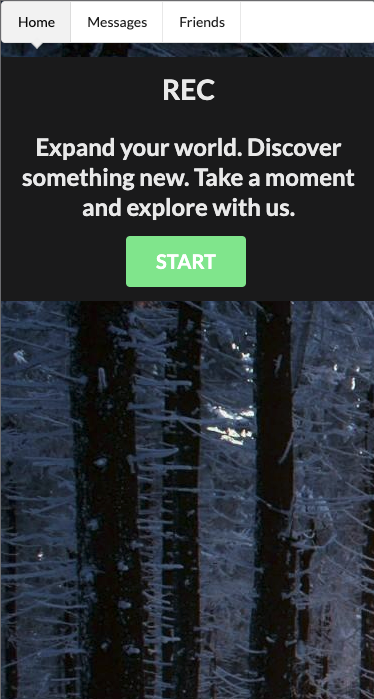
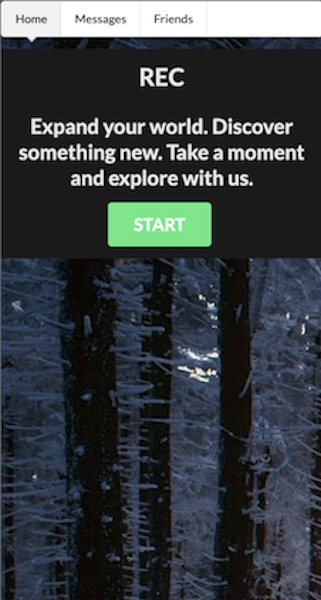
Added new mobile screenshots for apps on portfolio page

diff --git a/portfolio.html b/portfolio.html
@@ -66,25 +66,27 @@
             </div>
                 <!-- Added col -->
             <div class="col-md-6">
-                <img src="images/Day-Planner-Desktop.png" id="day-planner" class="rounded img-fluid" alt="Work Day Scheduler">
+                <img src="images/Day-Planner-Mobile.png" id="day-planner" class="rounded img-fluid" alt="Work Day Scheduler">
             </div>
         </div>
         <div class="row">
             <!-- Added col -->
             <div class="col-md-6">
                 <!-- Added blank img float elements -->
-                <img src="images/password-generator1.png" id="password-gen" class="rounded img-fluid" alt="Random Password Generator">
-                <ol>
-                  <!-- Added link to repo of app  -->
-                  <li><a href="https://github.com/jimbopulos/rec-app" target="_blank" rel="noopener noreferrer" class="project-link">Project 1 repo</a>
-                  </li>
-                  <!-- Added link to repo of app  -->
-                  <li><a href="https://github.com/jimbopulos/rec-app" target="_blank" rel="noopener noreferrer" class="project-link">Project 1 repo</a>
-                  </li>
-                  <!-- Added link to repo of app  -->
-                  <li><a href="https://github.com/jimbopulos/rec-app" target="_blank" rel="noopener noreferrer" class="project-link">Project 1 repo</a>
-                  </li>
-                </ol>
+                <img src="images/password-generator-mobile.png" id="password-gen" class="rounded img-fluid" alt="Random Password Generator">
+            </div>
+            <div>
+              <ol>
+                <!-- Added link to repo of app  -->
+                <li><a href="https://github.com/jimbopulos/rec-app" target="_blank" rel="noopener noreferrer" class="project-link">Project 1 repo</a>
+                </li>
+                <!-- Added link to repo of app  -->
+                <li><a href="https://github.com/jimbopulos/rec-app" target="_blank" rel="noopener noreferrer" class="project-link">Project 1 repo</a>
+                </li>
+                <!-- Added link to repo of app  -->
+                <li><a href="https://github.com/jimbopulos/rec-app" target="_blank" rel="noopener noreferrer" class="project-link">Project 1 repo</a>
+                </li>
+              </ol>
             </div>
                 <!-- Added col -->
             <!-- <div class="col-md-6">
